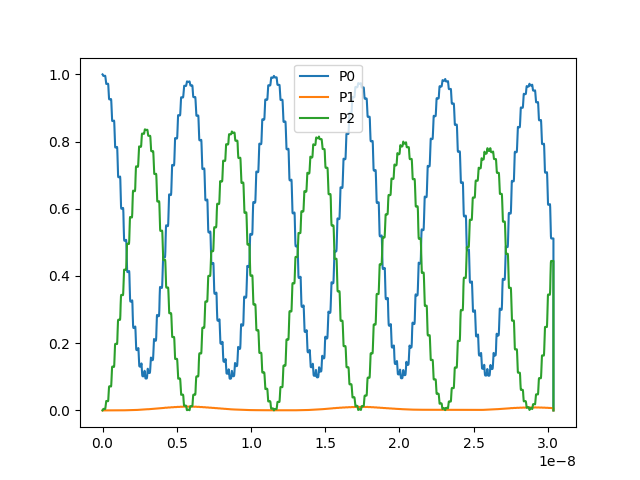
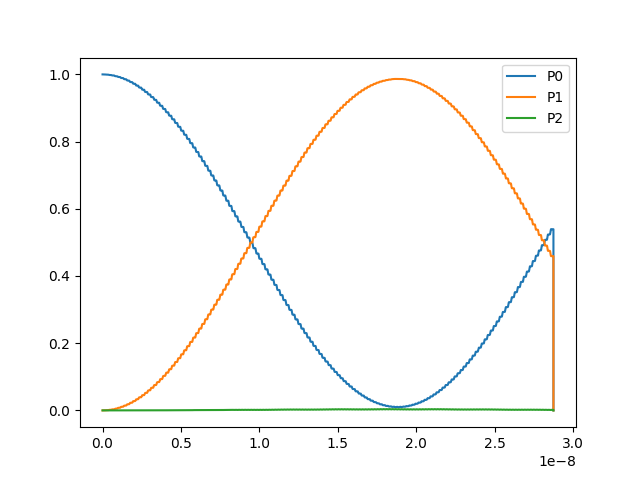
refactored single qubit RY to work

diff --git a/qubit_RY.py b/qubit_RY.py
@@ -26,7 +26,7 @@ def main():
     n_trunc  = 7
     
     # ---- Initialize the Architecture (Single or Multi) ----
-    nodes, branches, source_dict, terminal_dict, transmons, external_flux_on, external_flux_off = build_multi_qubit()
+    nodes, branches, source_dict, terminal_dict, transmons, external_flux_on, external_flux_off = build_single_qubit()
 
     # ---- Create Master Graph Representation ----
     master_graph = Multidigraph(
@@ -45,12 +45,12 @@ def main():
     master_circuit.build()
     
     # ---- Extract SubCircuits ----
-    sub_circuits = [t.circuit for t in transmons]
+    sub_circuits = transmons
     
     # ---- Quantize Each Subcircuit to Produce Unperturbed Subsystems----
     subsystems = []
     
-    for i in range(len(transmons)):
+    for k in range(len(transmons)):
         subsystem = quantize(
             circuit=sub_circuits[k], 
             charging_energy=master_circuit.charging_energy_matrix[k][k],
@@ -62,7 +62,7 @@ def main():
     
     num_subsystems = len(subsystems)
     
-    # ---- Create the System from the Master Circuit and Subsystems----
+    # ---- Create the System from the Master Circuit and Subsystems ----
     system = System(
         circuit=master_circuit,
         subsystems=subsystems,
@@ -76,7 +76,7 @@ def main():
     # ---- Retrieve Charging Energies of Each Transmon Circuit ----
     charging_energies = np.array([master_circuit.charging_energy_matrix[k][k] for k in range(num_subsystems)])
     
-    # ---- Retrieve Idling Transmon Josephson Energies (From DCSQUID) ----
+    # ---- Retrieve Idling Transmon Josephson Energies (From DCSQUIDs) ----
     josephson_energies = np.array([DCSQUID.calculate_effective_josephson_energy(
         left_josephson_energy=t.dcsquid.left_josephson_energy,
         right_josephson_energy=t.dcsquid.right_josephson_energy,
@@ -140,14 +140,22 @@ def main():
     # ---- Save originals ----
     time_full = time.copy()
     voltage_full = external_voltage.copy()
+    
+    # ---- Build Larger External Voltage Schedule ----
+    external_voltages = [np.zeros(len(time_full)) for _ in range(num_subsystems)]
+    external_voltages[k] = voltage_full
+
+    # ---- Coupler Flux Schedule (idling) ----
+    coupler_flux_idx = 1 if num_subsystems > 1 else 0
+    coupler_flux_full = np.full(len(time_full), external_flux_off[coupler_flux_idx], dtype=float)
 
     # ---- First evolution (full) ----
     final_state, P0, P1, P2 = solver.solve(
         system=system,
         initial_state=ground_state.copy(),
-        external_voltage=voltage_full,
-        time=time_full,
-        k=k
+        external_voltage=external_voltages,
+        coupler_flux_schedule=coupler_flux_full,
+        time=time_full
     )
     
     plt.plot(time_full, P0, label='P0')
@@ -172,15 +180,16 @@ def main():
     # ---- Truncate from originals ----
     mask = time_full <= (rabi_half_period)
     time_half = time_full[mask]
-    voltage_half = voltage_full[mask]
+    external_voltages_half = [ev[mask] for ev in external_voltages]
+    coupler_flux_half = coupler_flux_full[mask]
 
     # ---- Second evolution (half Rabi) ----
     final_state, P0, P1, P2 = solver.solve(
         system=system,
         initial_state=ground_state.copy(),
-        external_voltage=voltage_half,
+        external_voltage=external_voltages_half,
+        coupler_flux_schedule=coupler_flux_half,
         time=time_half,
-        k=k
     )
     
     plt.clf()
@@ -196,47 +205,39 @@ def main():
     ground_evolved, _, _, _ = solver.solve(
         system=system,
         initial_state=ground_state.copy(),
-        external_voltage=voltage_half,
+        external_voltage=external_voltages_half,
+        coupler_flux_schedule=coupler_flux_half,
         time=time_half,
-        k=k
     )
 
     excited_evolved, _, _, _ = solver.solve(
         system=system,
         initial_state=excited_state.copy(),
-        external_voltage=voltage_half,
+        external_voltage=external_voltages_half,
+        coupler_flux_schedule=coupler_flux_half,
         time=time_half,
-        k=k
     )
     
     U[:, 0] = ground_evolved["energy"]
     U[:, 1] = excited_evolved["energy"]
     
-    # ---- Project U Onto the Logical/Computational Subspace of Qubit k----
+    # ---- Project U Onto the Logical/Computational Subspace ----
     U_q = Operator(basis_to_matrix={"energy": U[:2, :2]})
     
     # ---- Calculate Leakage and Fidelity Metrics ----
-    pauli_coefs = get_pauli_coefs(
-        U_q=U_q,
-        basis="energy"
-    )
+    pauli_coefs = get_pauli_coefs(U_q["energy"])
     
-    L1 = get_L1(
-        U_q=U_q,
-        basis="energy"
-    )
+    L1 = get_L1(U_q["energy"])
     
-    r = get_r(
-        coefs=pauli_coefs,
-    )
+    r = get_r(pauli_coefs)
     
     process_fidelity = get_process_fidelity(
-        U_q=U_q,
-        U_target=get_RY_target(theta_target=np.pi),
-        basis="energy"
+        U_q=U_q["energy"],
+        U_target=get_RY_target(np.pi)["energy"],
     )
 
     fidelity = get_average_gate_fidelity(
+        U_q=U_q["energy"],
         process_fidelity=process_fidelity,
         L1=L1
     )
@@ -244,8 +245,6 @@ def main():
     print("Gate Fidelity: ")
     print(fidelity)
     
-
-
 
 if __name__ == "__main__":
     main()

diff --git a/CrankNicolson.py b/CrankNicolson.py
@@ -42,7 +42,7 @@ class CrankNicolsonSolver():
     def __init__(self):
         pass
 
-    def solve(self, system: System, initial_state: Wavefunction, external_voltages: np.ndarray, coupler_flux_schedule: np.ndarray, time: np.ndarray):
+    def solve(self, system: System, initial_state: Wavefunction, external_voltage: np.ndarray, coupler_flux_schedule: np.ndarray, time: np.ndarray):
         r"""Evolve ``initial_state`` under ``H_0 + H_D(t)``.
 
         Parameters
@@ -107,12 +107,12 @@ class CrankNicolsonSolver():
             n_e_vec = np.zeros(len(system.subsystems))
             
             for k in range(system.num_subsystems):
-                v_midpoint = (external_voltages[k][i] + external_voltages[k][i+1]) / 2
+                v_midpoint = (external_voltage[k][i] + external_voltage[k][i+1]) / 2
                 n_e_vec[k] = (system.subsystems[k].circuit.coupling_capacitance * v_midpoint) / (2 * e)     
             
             for k in range(system.num_subsystems):
-                for l in range(system.num_subsystems):    
-                    HD_midpoint += n_e_vec[k] * system.circuit.charging_energy_matrix[k][l] * n_vec[l]
+                for l in range(system.num_subsystems):
+                    HD_midpoint += -8 * n_e_vec[k] * system.circuit.charging_energy_matrix[k][l] * n_vec[l]
             
             H = system.H0["energy"] + HD_midpoint
 
